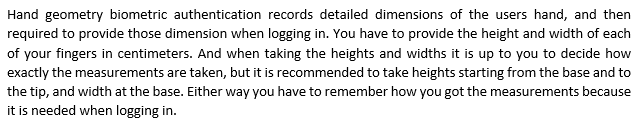
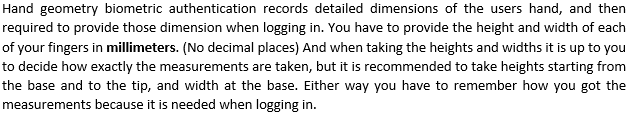
Hand Auth validations done

diff --git a/src/biometricsecurity/view/SignUpFrame.java b/src/biometricsecurity/view/SignUpFrame.java
@@ -8,6 +8,7 @@ package biometricsecurity.view;
 import biometricsecurity.controller.MainController;
 import java.awt.Dimension;
 import java.awt.Toolkit;
+import java.util.regex.Pattern;
 import javax.swing.JOptionPane;
 
 /**
@@ -81,7 +82,7 @@ public class SignUpFrame extends javax.swing.JFrame {
 
         jLabel2.setText("User Name");
 
-        jLabel3.setText("Input the following hand geometry details");
+        jLabel3.setText("Input the following hand geometry details (In millimeters)");
 
         jLabel4.setText("Thumb Height");
 
@@ -281,27 +282,39 @@ public class SignUpFrame extends javax.swing.JFrame {
 
         pack();
     }// </editor-fold>//GEN-END:initComponents
-
+    
     private void createBtnActionPerformed(java.awt.event.ActionEvent evt) {//GEN-FIRST:event_createBtnActionPerformed
-        
         float[] fingerWidths = new float[5];
+        float[] fingerHeights = new float[5];
         
+        try{
         fingerWidths[0] = Float.parseFloat(fingerWidth1.getText());
         fingerWidths[1] = Float.parseFloat(fingerWidth2.getText());
         fingerWidths[2] = Float.parseFloat(fingerWidth3.getText());
         fingerWidths[3] = Float.parseFloat(fingerWidth4.getText());
         fingerWidths[4] = Float.parseFloat(fingerWidth5.getText());
         
-        float[] fingerHeights = new float[5];
         fingerHeights[0] = Float.parseFloat(fingerHeight1.getText());
         fingerHeights[1] = Float.parseFloat(fingerHeight2.getText());
         fingerHeights[2] = Float.parseFloat(fingerHeight3.getText());
         fingerHeights[3] = Float.parseFloat(fingerHeight4.getText());
         fingerHeights[4] = Float.parseFloat(fingerHeight5.getText());
         
-        String userName = userNameTxt.getText();
-        // TODO - Validation
+        }
+        catch(NumberFormatException nfe){
+            // Validation failed
+            JOptionPane.showMessageDialog(this, "Dimension should only be numbers. Cannot contain characters.", "Input Data Error", JOptionPane.ERROR_MESSAGE);
+            return ;
+        }
         
+        String userName = userNameTxt.getText().toLowerCase();
+        
+        Pattern p = Pattern.compile("[^a-zA-Z0-9]");
+        if (p.matcher(userName).find()){
+            JOptionPane.showMessageDialog(this, "Username can only contain letters and number. No special characters and spaces allowed.", "Invalid Username", JOptionPane.ERROR_MESSAGE);
+            return;
+        }
+
         if (!controller.createUserHandAuth(userName, fingerHeights, fingerWidths)){
             JOptionPane.showMessageDialog(this,"User Name you have entered is already taken. Please try another User Name.", "User Name Error", JOptionPane.ERROR_MESSAGE);
             userNameTxt.setText("");
@@ -318,7 +331,9 @@ public class SignUpFrame extends javax.swing.JFrame {
             
             JOptionPane.showMessageDialog(this, "User registered succesfully!", "Create User Success", JOptionPane.INFORMATION_MESSAGE);
             
-            // TODO - Redirect to the sign up page
+            SignInFrame sIFrame = new SignInFrame(controller);
+            sIFrame.setVisible(true);
+            this.dispose();
         }
         
     }//GEN-LAST:event_createBtnActionPerformed

diff --git a/src/biometricsecurity/view/HandAuthLogin.java b/src/biometricsecurity/view/HandAuthLogin.java
@@ -22,6 +22,8 @@ public class HandAuthLogin extends javax.swing.JFrame {
     String userName;
     /**
      * Creates new form HandAuthLogin
+     * @param controller
+     * @param userName
      */
     public HandAuthLogin(MainController controller, String userName) {
         initComponents();
@@ -69,7 +71,7 @@ public class HandAuthLogin extends javax.swing.JFrame {
         setDefaultCloseOperation(javax.swing.WindowConstants.EXIT_ON_CLOSE);
         setTitle("Login");
 
-        jLabel3.setText("Input the following hand geometry details");
+        jLabel3.setText("Input the following hand geometry details (In millimeters)");
 
         jLabel4.setText("Thumb Height");
 
@@ -215,17 +217,23 @@ public class HandAuthLogin extends javax.swing.JFrame {
         float[] fingerHeights = new float[5];
         float[] fingerWidths = new float[5];
         
-        fingerHeights[0] = Float.parseFloat(fingerHeight1.getText());
-        fingerHeights[1] = Float.parseFloat(fingerHeight2.getText());
-        fingerHeights[2] = Float.parseFloat(fingerHeight3.getText());
-        fingerHeights[3] = Float.parseFloat(fingerHeight4.getText());
-        fingerHeights[4] = Float.parseFloat(fingerHeight5.getText());
-        
-        fingerWidths[0] = Float.parseFloat(fingerWidth1.getText());
-        fingerWidths[1] = Float.parseFloat(fingerWidth2.getText());
-        fingerWidths[2] = Float.parseFloat(fingerWidth3.getText());
-        fingerWidths[3] = Float.parseFloat(fingerWidth4.getText());
-        fingerWidths[4] = Float.parseFloat(fingerWidth5.getText());
+        try{
+            fingerHeights[0] = Float.parseFloat(fingerHeight1.getText());
+            fingerHeights[1] = Float.parseFloat(fingerHeight2.getText());
+            fingerHeights[2] = Float.parseFloat(fingerHeight3.getText());
+            fingerHeights[3] = Float.parseFloat(fingerHeight4.getText());
+            fingerHeights[4] = Float.parseFloat(fingerHeight5.getText());
+
+            fingerWidths[0] = Float.parseFloat(fingerWidth1.getText());
+            fingerWidths[1] = Float.parseFloat(fingerWidth2.getText());
+            fingerWidths[2] = Float.parseFloat(fingerWidth3.getText());
+            fingerWidths[3] = Float.parseFloat(fingerWidth4.getText());
+            fingerWidths[4] = Float.parseFloat(fingerWidth5.getText());
+        }
+        catch(NumberFormatException nfe){
+            JOptionPane.showMessageDialog(this, "Dimension should only be numbers. Cannot contain characters.", "Input Data Error", JOptionPane.ERROR_MESSAGE);
+            return;
+        }
         
         if (controller.validateHandAuth(userName, fingerHeights, fingerWidths)){
             // Validated successfuly
